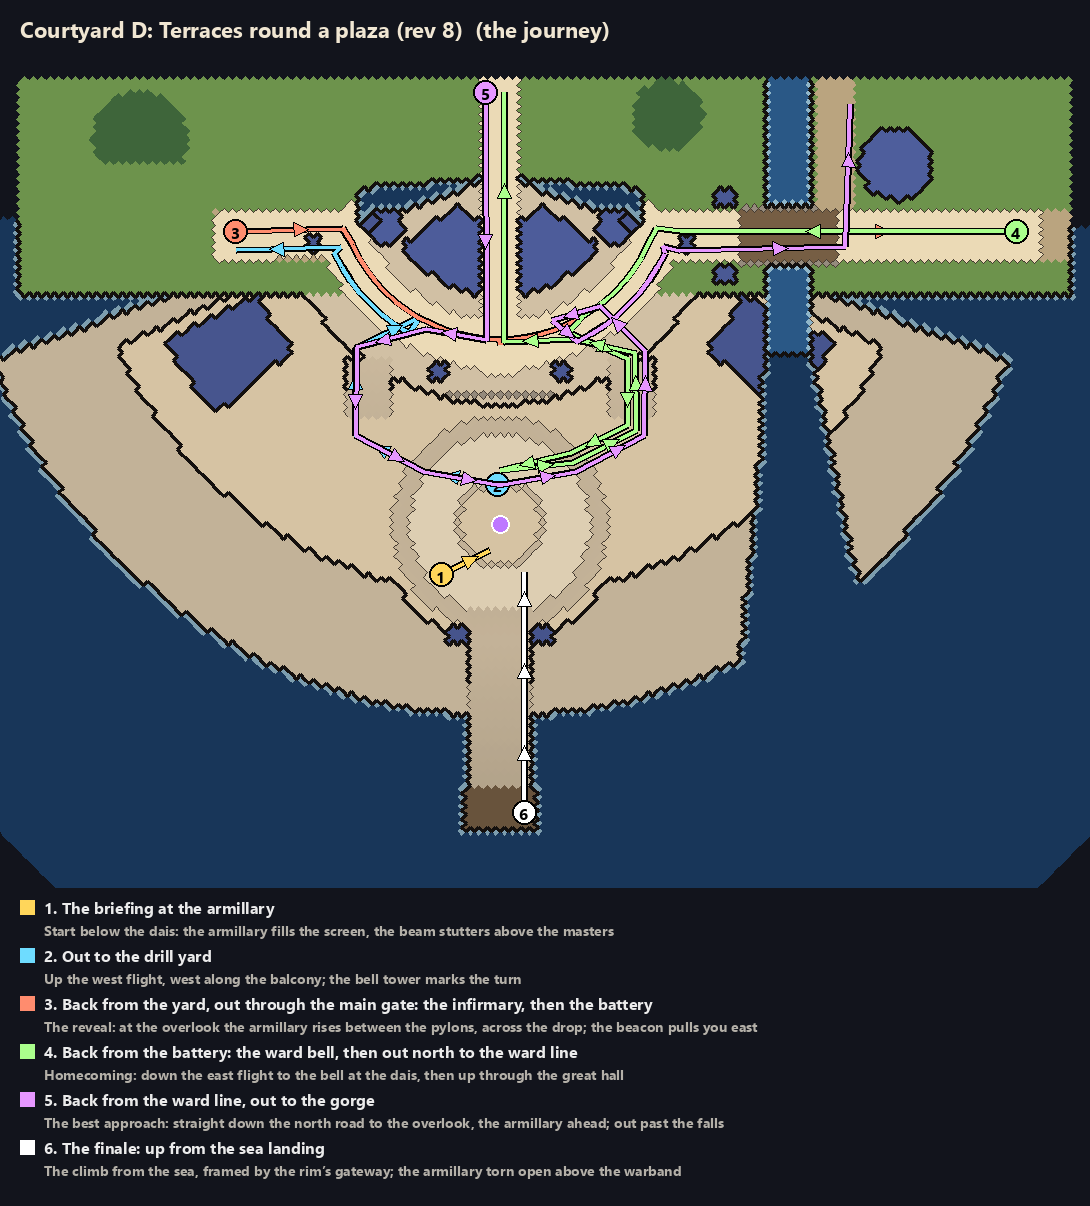
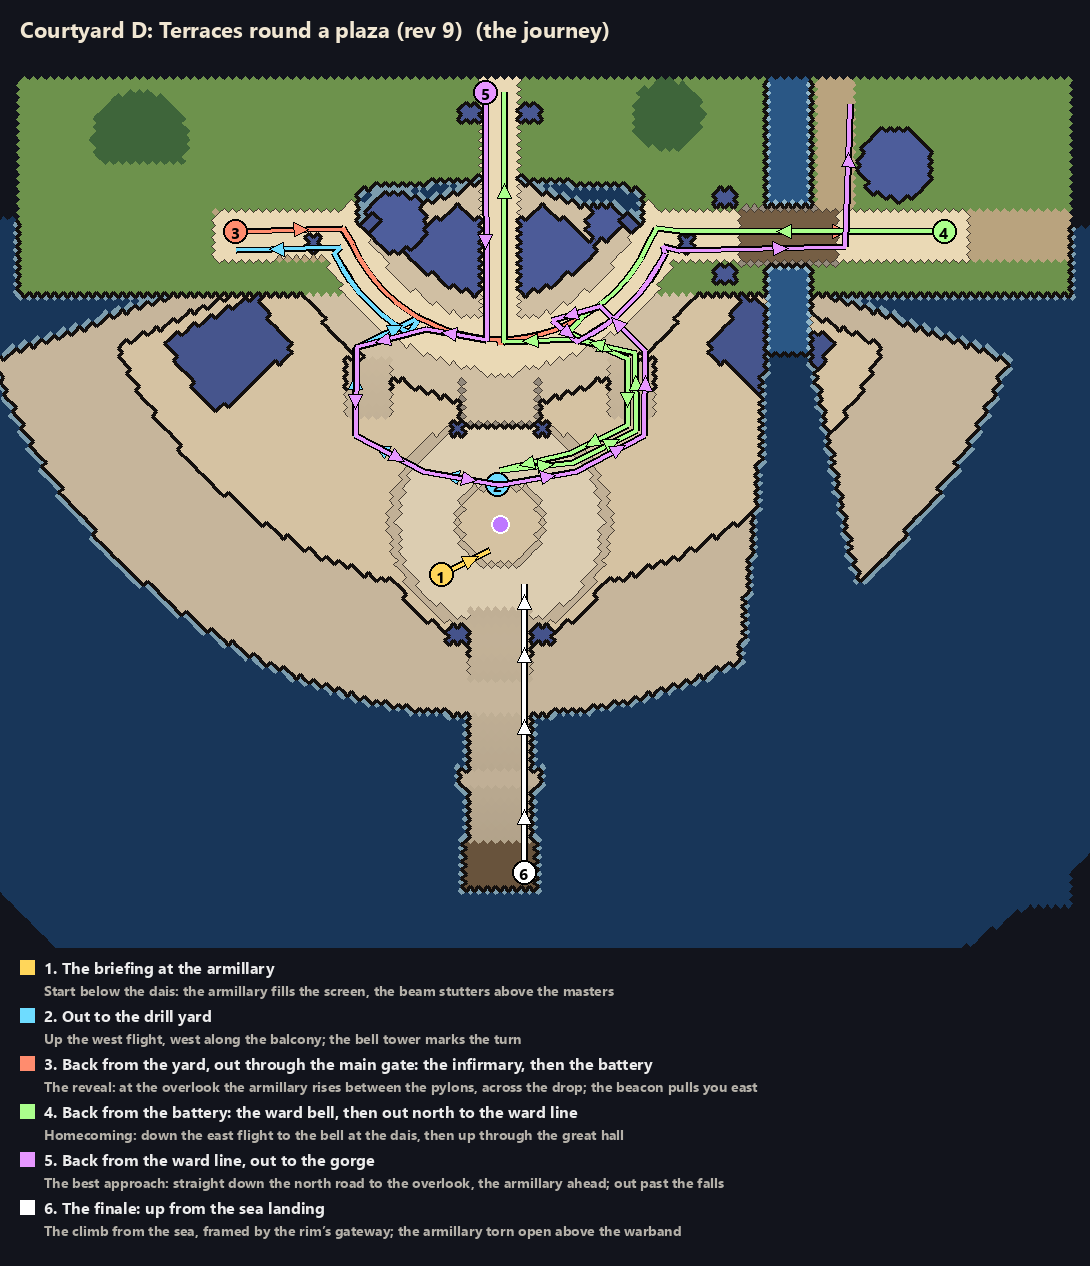
Courtyard D rev 9 after in-game round 3 (6/10): a shorter finale climb with a landing, the overlook as a bay over the drop, a two-tread rim, the battery a screen nearer, north gate towers
Claude-Session: https://claude.ai/code/session_01JAzvjimAGaEKKq76NLS6sr

diff --git a/tools/segments/01-opening/segment.js b/tools/segments/01-opening/segment.js
@@ -125,7 +125,7 @@ concepts:[
   [`What comes next.`,` The plan you pick becomes a walkable grey-box with real cliffs and stairs, and a flow critic walks it at play zoom. That needs height in the engine, which it doesn't have (the second question). Art comes last.`],
  ],
  images:[
-  ['img/court-plan-d5.png','Grey-box plan D, revision 5: a balcony road arcs along the top terrace in front of the great hall, from the drill yard’s seam on the west past a bell tower to a beacon and a parapeted bridge over the falls to the battery’s tower on the east; a grand stair between two pylons drops from the arc’s middle onto the armillary in the sunken round plaza; a gateway and a straight stair lead down to the sea landing.','D, revision 8: every main arrival comes down the screen; two flights flank the dais and an overlook frames the armillary, after two rounds walked in the game.'],
+  ['img/court-plan-d5.png','Grey-box plan D, revision 5: a balcony road arcs along the top terrace in front of the great hall, from the drill yard’s seam on the west past a bell tower to a beacon and a parapeted bridge over the falls to the battery’s tower on the east; a grand stair between two pylons drops from the arc’s middle onto the armillary in the sunken round plaza; a gateway and a straight stair lead down to the sea landing.','D, revision 9: every main arrival comes down the screen; two flights flank the dais, an overlook bay looks down on the armillary, and the finale climbs from the sea in short flights, after three rounds walked in the game (4, 5, then 6 out of 10).'],
   ['img/court-journey-d5.png','Plan D from above with six numbered passes drawn as coloured arrows: 1 the briefing at the dais; 2 up the grand stair and west along the balcony arc to the drill yard; 3 back from the yard along the whole arc and east over the bridge; 4 back from the battery, down to the dais and up through the great hall to the north road; 5 down the north road to the dais, back up and east past the falls to the gorge; 6 up from the sea landing to the dais. A legend gives each pass\u2019s purpose.','The journey: every pass through the courtyard, in order, and the moment each should give.'],
   ['img/court-plan-d.png','Grey-box plan D in the game camera: three curved terraces descending to the sea, a round sunken plaza with the armillary at the centre of the middle terrace, the great hall at the top with the north road through it, a sea inlet and waterfall on the east crossed by the battery road’s bridge.','D as first drawn, before the flow rounds.'],
   ['img/court-plan-b.png','Grey-box plan B: three curved terraces like an amphitheatre facing the sea, the armillary on a round bastion jutting over the lowest terrace.','B, the Terraces.'],

diff --git a/tools/place-plans/plans/court-d.py b/tools/place-plans/plans/court-d.py
@@ -40,11 +40,16 @@ Revision 8 (the second in-game flow round, 5/10): the armillary, about a screen 
 stair, rose over the stair on screen and hid it, so every descent happened inside the sphere. The axis stair becomes a
 pair of flights either side of the dais, clear of the sphere's screen shadow; the axis keeps an overlook between the
 pylons, behind a low parapet, where the armillary is framed across the drop. The armillary itself is cut to about 70%
-(about seven wizards tall, as in the concept), so it shares a screen with its dais."""
+(about seven wizards tall, as in the concept), so it shares a screen with its dais.
+
+Revision 9 (the third in-game flow round, 6/10: the routes read, the set pieces don't land yet): the finale climb is
+shorter and broken by a landing (the sea court raised to +1 m, the quay stair in two flights); the overlook juts out as a
+bay over the drop with low corner posts instead of tall pylons; the plaza's rim is two real 0.5 m treads; the battery's
+end of the road is a screen shorter; the bell tower has bulk; the north road ends at gate towers, not the void."""
 import sys, os; sys.path.insert(0, os.path.join(os.path.dirname(__file__), '..'))
 from plan import *
 
-P = Plan('court-d', 'Courtyard D: Terraces round a plaza (rev 8)', U=(-80, 95), V=(-56, 72))
+P = Plan('court-d', 'Courtyard D: Terraces round a plaza (rev 9)', U=(-80, 95), V=(-56, 82))
 C = (0, -40)            # the amphitheatre's centre, up the screen
 ARM = (0, 18)
 SEA = -9.0
@@ -56,12 +61,11 @@ for c, r in [((-60, -46), 8), ((28, -50), 6), ((-66, -8), 6)]:
     P.fill(circle(c, r), 6.0, 'trees')
 # the sea and the terraces cut into the hillside
 P.fill(arc_band(C, 0, 150, 5, 175), SEA, 'deep')
-P.fill(arc_band(C, 0, 90, 20, 160), -1.0, 'paving')         # the sea court
+P.fill(arc_band(C, 0, 90, 20, 160), 1.0, 'paving')          # the sea court
 P.fill(arc_band(C, 0, 70, 24, 156), 3.0, 'plaza')           # the middle terrace
 P.fill(circle(ARM, 20), 3.0, 'plaza')                       # the round plaza's rim, a bastion over the sea court
-for r, h in ((18, 2.75), (17, 2.5), (16, 2.25)):            # sunk a metre in rings of steps
-    P.fill(circle(ARM, r), h, 'stairs')
-P.fill(circle(ARM, 15), 2.0, 'dais')
+P.fill(circle(ARM, 18.5), 2.5, 'stairs')                    # sunk a metre in two real treads
+P.fill(circle(ARM, 17), 2.0, 'dais')
 P.fill(arc_band(C, 0, 38, 20, 160), 6.0, 'paving')          # the top terrace, a balcony over the plaza
 P.fill(rect(-80, -42, -24, -20), 6.0, 'grass'); P.fill(rect(24, -42, 95, -20), 6.0, 'grass')   # the land out to the seams
 P.fill(circle(ARM, 7.5), 2.5, 'stairs'); P.fill(circle(ARM, 6.5), 3.0, 'plaza')   # the dais, in two 0.5 m rings you can step up anywhere
@@ -70,9 +74,12 @@ P.fill(circle(ARM, 7.5), 2.5, 'stairs'); P.fill(circle(ARM, 6.5), 3.0, 'plaza') 
 P.building(arc_band(C, 8, 20, 35, 145), 6.0, 12.0, 'great hall', doors=[polar(C, 21, 65), polar(C, 21, 115)])
 P.fill(orect(polar(C, 14, 90), 6, 14, math.radians(90)), 6.0, 'path')
 P.fill(rect(-3, -56, 3, -30), 6.0, 'path')
+for du in (-6.5, 3.5): P.building(rect(du, -52, du + 3, -49), 6.0, 8.0)                              # the north gate's towers
 for su in (-22, 22): P.stairs(orect((su, -4.5), 8, 10, math.radians(90)), 6.0, 3.0, 90)              # the paired flights, either side of the dais
-for du in (-10, 10): P.building(rect(du - 1.5, -9, du + 1.5, -6), 6.0, 6.0)                          # pylons framing the overlook
-P.building(rect(-8.5, -4, 8.5, -3), 6.0, 1.0, roof='wall')                                           # the overlook's low parapet
+P.fill(rect(-7, -6, 7, 1), 6.0, 'paving')                                                           # the overlook, a bay jutting over the drop
+P.building(rect(-7, 1, 7, 2), 6.0, 1.0, roof='wall')                                                 # its parapet
+for du in (-7, 6): P.building(rect(du, -6, du + 1, 2), 6.0, 1.0, roof='wall')                         # its side parapets
+for du in (-7.5, 6.5): P.building(rect(du - 0.5, 1, du + 1.5, 3), 6.0, 2.5)                          # low posts at its corners
 
 # the cross road: an arc along the top terrace in front of the hall, from the yard's seam to the battery's
 ARC = [polar(C, 28, a) for a in range(160, 89, -5)] + [polar(C, 28, a) for a in range(90, 19, -5)]
@@ -83,21 +90,23 @@ for a0, a1, nm in ((26, 40, 'workshops'), (140, 154, 'library')):
     P.building(arc_band(C, 45, 62, a0, a1, 10), 3.0, 7.0, nm, doors=[polar(C, 53, a1 + 2 if a0 < 90 else a0 - 2)])
 
 # the sea landing: straight below the armillary, an axis stair off the plaza's rim, then down the cliff
-P.stairs(orect((0, 44), 10, 12, math.radians(90)), 3.0, -1.0, 90)
-P.stairs(orect((0, 56), 10, 12, math.radians(90)), -1.0, -5.0, 90)
-P.fill(rect(-6, 62, 6, 69), -5.0, 'wood')
+P.stairs(orect((0, 41), 10, 6, math.radians(90)), 3.0, 1.0, 90)
+P.stairs(orect((0, 54.5), 10, 9, math.radians(90)), 1.0, -2.0, 90)
+P.fill(rect(-7, 59, 7, 62), -2.0, 'paving')                                                         # the landing
+P.stairs(orect((0, 66.5), 10, 9, math.radians(90)), -2.0, -5.0, 90)
+P.fill(rect(-6, 71, 6, 79), -5.0, 'wood')
 for du in (-7, 7): P.building(rect(du - 1.5, 35, du + 1.5, 38), 3.0, 5.0)                            # the rim's gateway
 
 # the battery: across the head of a sea inlet to the east, over one parapeted deck above the falls; the battery's tower
 # beside the road just beyond, on its north side so it can't hide you
-P.fill([(38, 72), (40, 40), (43, 10), (44, -10), (52, -10), (58, 20), (64, 45), (95, 52), (95, 72)], SEA, 'deep')   # the inlet
+P.fill([(38, 82), (40, 40), (43, 10), (44, -10), (52, -10), (58, 20), (64, 45), (95, 52), (95, 82)], SEA, 'deep')   # the inlet
 P.fill([(44, -56), (52, -56), (52, -10), (44, -10)], 4.0, 'water')                                                 # the stream above the falls
 P.fill(rect(24, -34, 95, -26), 6.0, 'path')
 P.fill(rect(40, -34, 56, -26), 6.5, 'wood')                                                                        # the deck
 P.building(rect(40, -35, 56, -34), 6.5, 1.0, roof='wall'); P.building(rect(40, -26, 56, -25), 6.5, 1.0, roof='wall')   # parapets
 P.building(rect(36, -38, 39, -35), 6.0, 8.0); P.building(rect(36, -25, 39, -22), 6.0, 8.0)                         # gate towers
 P.building(circle((66, -42), 6), 6.0, 14, 'battery tower')
-BAT = (86, -30)
+BAT = (74, -30)
 P.fill(rect(53, -56, 59, -34), 6.0, 'path')                                                                        # the gorge path up beside the stream
 GORGE = (56, -52)
 
@@ -107,20 +116,20 @@ P.fill(rect(-48, -34, -24, -26), 6.0, 'path')
 P.strip([YARD] + ARC + [polar(C, 28, 20), (30, -30), BAT], 8)
 P.strip([(0, -56), polar(C, 30, 90)], 6)
 
-for a, nm in ((156, 'bell tower'), (24, 'beacon')):                    # a tall marker at each turn of the arc, on its north side
-    P.building(circle(polar(C, 21, a), 3.0), 6.0, 13.0, nm)
+for a, nm, r in ((156, 'bell tower', 5.0), (24, 'beacon', 3.0)):     # a tall marker at each turn of the arc, on its north side
+    P.building(circle(polar(C, 19, a), r), 6.0, 15.0 if r > 4 else 13.0, nm)
 for a in (160, 20):                                                     # threshold pillars where the arc meets each seam
     for r in (23, 33): P.building(circle(polar(C, r, a), 1.3), 6.0, 5.0)
 P.h[(P.m == 'road') & (P.h == 6.0)] += 0.3                              # the road a step above the terrace
 P.landmark(ARM, 'the armillary', 10, 5.5)
-P.gate(YARD, 'to the drill yard'); P.gate(BAT, 'to the battery'); P.gate((0, -54), 'north road'); P.gate((0, 66), 'sea landing')
+P.gate(YARD, 'to the drill yard'); P.gate(BAT, 'to the battery'); P.gate((0, -54), 'north road'); P.gate((0, 76), 'sea landing')
 J = polar(C, 28, 90); ARC_W, ARC_E = ARC[:15], ARC[14:]
 WT, WF, ET, EF, DAIS = (-22, -10), (-22, 2), (22, -10), (22, 2), (0, 9)       # the flights' tops and feet, the dais's north step
 WDOWN, EDOWN = [WT, WF, (-12, 7), DAIS], [ET, EF, (12, 7), DAIS]
 P.route([YARD] + ARC_W[:10] + WDOWN, 'main')                                         # arriving from the yard
 P.route([BAT, (30, -30)] + ARC_E[::-1][:10] + EDOWN, 'main')                          # coming back from the battery
 P.route([(0, -54), J, (-12, -12)] + WDOWN, 'main')                                   # the north road
-P.route([(0, 66), (0, 50), (0, 26)], 'side')                                         # up from the sea landing
+P.route([(0, 76), (0, 50), (0, 26)], 'side')                                         # up from the sea landing
 # the journey through the courtyard, in the order of the brief's route; the exits as the user approved (2026-11-22)
 P.journey([(-8, 30), (0, 26)], 'The briefing at the armillary', 'Start below the dais: the armillary fills the screen, the beam stutters above the masters')
 P.journey(WDOWN[::-1] + ARC_W[::-1][5:] + [YARD], 'Out to the drill yard', 'Up the west flight, west along the balcony; the bell tower marks the turn')
@@ -130,7 +139,7 @@ P.journey([BAT, (30, -30)] + ARC_E[::-1][:10] + EDOWN + EDOWN[::-1][1:] + [(12, 
           'Homecoming: down the east flight to the bell at the dais, then up through the great hall')
 P.journey([(0, -54), J, (-12, -12)] + WDOWN + EDOWN[::-1] + [(16, -16)] + ARC_E[5:] + [(30, -30), (56, -30), GORGE], 'Back from the ward line, out to the gorge',
           'The best approach: straight down the north road to the overlook, the armillary ahead; out past the falls')
-P.journey([(0, 66), (0, 50), (0, 38), (0, 26)], 'The finale: up from the sea landing',
+P.journey([(0, 76), (0, 61), (0, 46), (0, 36), (0, 28)], 'The finale: up from the sea landing',
           'The climb from the sea, framed by the rim’s gateway; the armillary torn open above the warband')
 P.render()
 if "--frames" in sys.argv: P.frames()

diff --git a/docs/campaign/making-a-place.md b/docs/campaign/making-a-place.md
@@ -82,6 +82,7 @@ Every few places, the user reads the log and cuts any stage or rule that isn't p
 | Date | What happened | Which stage should have caught it | Change |
 |---|---|---|---|
 | 2026-11-22 | 7 beauty rounds on the courtyard plateaued at 6/10; the user named four failures: a rectangular layout, no depth, no flow, details that don't make sense | None existed except beauty | This cycle: the read, three divergent plans, flow and sense critics, the sense lint, and the height work in the engine |
+| 2026-11-22 | The third in-game flow round, plan D rev 8: 6/10. The routes, the flights and the roads read, and the armillary orients you without hiding anything. The two set pieces don't land yet: the overlook doesn't show its drop, and the finale climb is two screens of the same stair ending under the dais. The road ends are padding | Flow | Rev 9 is structural: a shorter finale climb broken by a landing; the overlook as a bay over the drop with low posts; a two-tread rim; the battery a screen nearer; gate towers on the north road |
 | 2026-11-22 | The second in-game flow round, plan D rev 7 with the armillary placed: 5/10. The arc, the bridge and the exits worked, but the armillary (about a screen tall, ten wizards) rose over the grand stair on screen and hid the stair and the player, and from below its top ran off the screen | Flow, and the read: size the landmark for the camera | Principle 22: keep routes out of a landmark's screen shadow. Rev 8 splits the grand stair into flights either side of the dais with an overlook on the axis, and the armillary is cut to about 70% (`props.py --height 420`; footprint 13 u) |
 | 2026-11-22 | The first in-game flow round, on the grey-box of plan D rev 6 (`npm run shot:route`): 4/10. At play zoom the plan was too big. The arc walked as 8 near-identical screens, the dais never shared a frame with the balcony, and the reveal couldn't be judged with no armillary in the level. The camera also framed the unlifted ground point, so the wizard sat at the top of the screen on high tiers | Flow, which the flat frames had overrated (5/10) | Principle 21: measure routes in screens. The flow critic always gets the landmark as a volume. Flat frames are a first filter, and the score that counts is in-game. Rev 7 pulls the courtyard together (the arc 43 to 28 u, the stair head about 25 u from the dais). The camera bug and the missing armillary went to the engine thread |
 | 2026-11-22 | The engine's plan-to-level report (`to_ldtk.py --report`) on plan D rev 5: the top terrace, the dais and the sea court were cut off, with 128 jumps inside flights. Four critic rounds had judged a plan that couldn't be walked, because the plan views hide jumps inside flights | Structure and flow | **Every plan revision passes the walk report before a critic sees it** (everything marked reachable from the start, no jumps inside flights). Flights get about 3 u of run per metre of drop along a screen vertical, 2 u along a screen diagonal. Rev 6 fixed the grand stair, the dais, the sea stair and the landing |

diff --git a/docs/threads/opening.md b/docs/threads/opening.md
@@ -10,7 +10,7 @@ The opening is now a chain of eight stops: at each one you fix a machine and get
 
 ## Next
 
-- [ ] The courtyard under the new cycle ([making a place](../campaign/making-a-place.md)): plan D chosen (2026-11-22). Flow on frames done (revision 5, four rounds; [the read](../campaign/01-opening/court-read.md#stage-1-and-2-the-plan-and-flow-on-frames)). The grey-box was walked in-game on 2026-11-22 (4/10: too big at play zoom), so plan D rev 7 pulls it together. In-game round 2 on rev 7 (5/10): the armillary hid the grand stair, so rev 8 flanks the dais with two flights and cuts the armillary to about 70%. Next: the engine session rewrites the Court from rev 8, then in-game round 3 (`npm run shot:route`, in two batches).
+- [ ] The courtyard under the new cycle ([making a place](../campaign/making-a-place.md)): plan D chosen (2026-11-22). Flow on frames done (revision 5, four rounds; [the read](../campaign/01-opening/court-read.md#stage-1-and-2-the-plan-and-flow-on-frames)). The grey-box was walked in-game on 2026-11-22 (4/10: too big at play zoom), so plan D rev 7 pulls it together. In-game round 2 on rev 7 (5/10): the armillary hid the grand stair, so rev 8 flanks the dais with two flights and cuts the armillary to about 70%. In-game round 3 on rev 8 scored 6/10 (the routes read; the overlook and the finale don't land yet), so rev 9 reworks those two set pieces. Next: the engine session rewrites the Court from rev 9, then in-game round 4.
 - [x] The yard's space diagram and blockout (2026-11-22). Next: the user walks it.
 - [ ] The district's roads as a space diagram with walk times, and where the small fights go.
 - [ ] The infirmary (Life, the first cast): space diagram, Codex concept from the blockout's footprint, then an LDtk blockout. It's the smallest test of the new shape.
